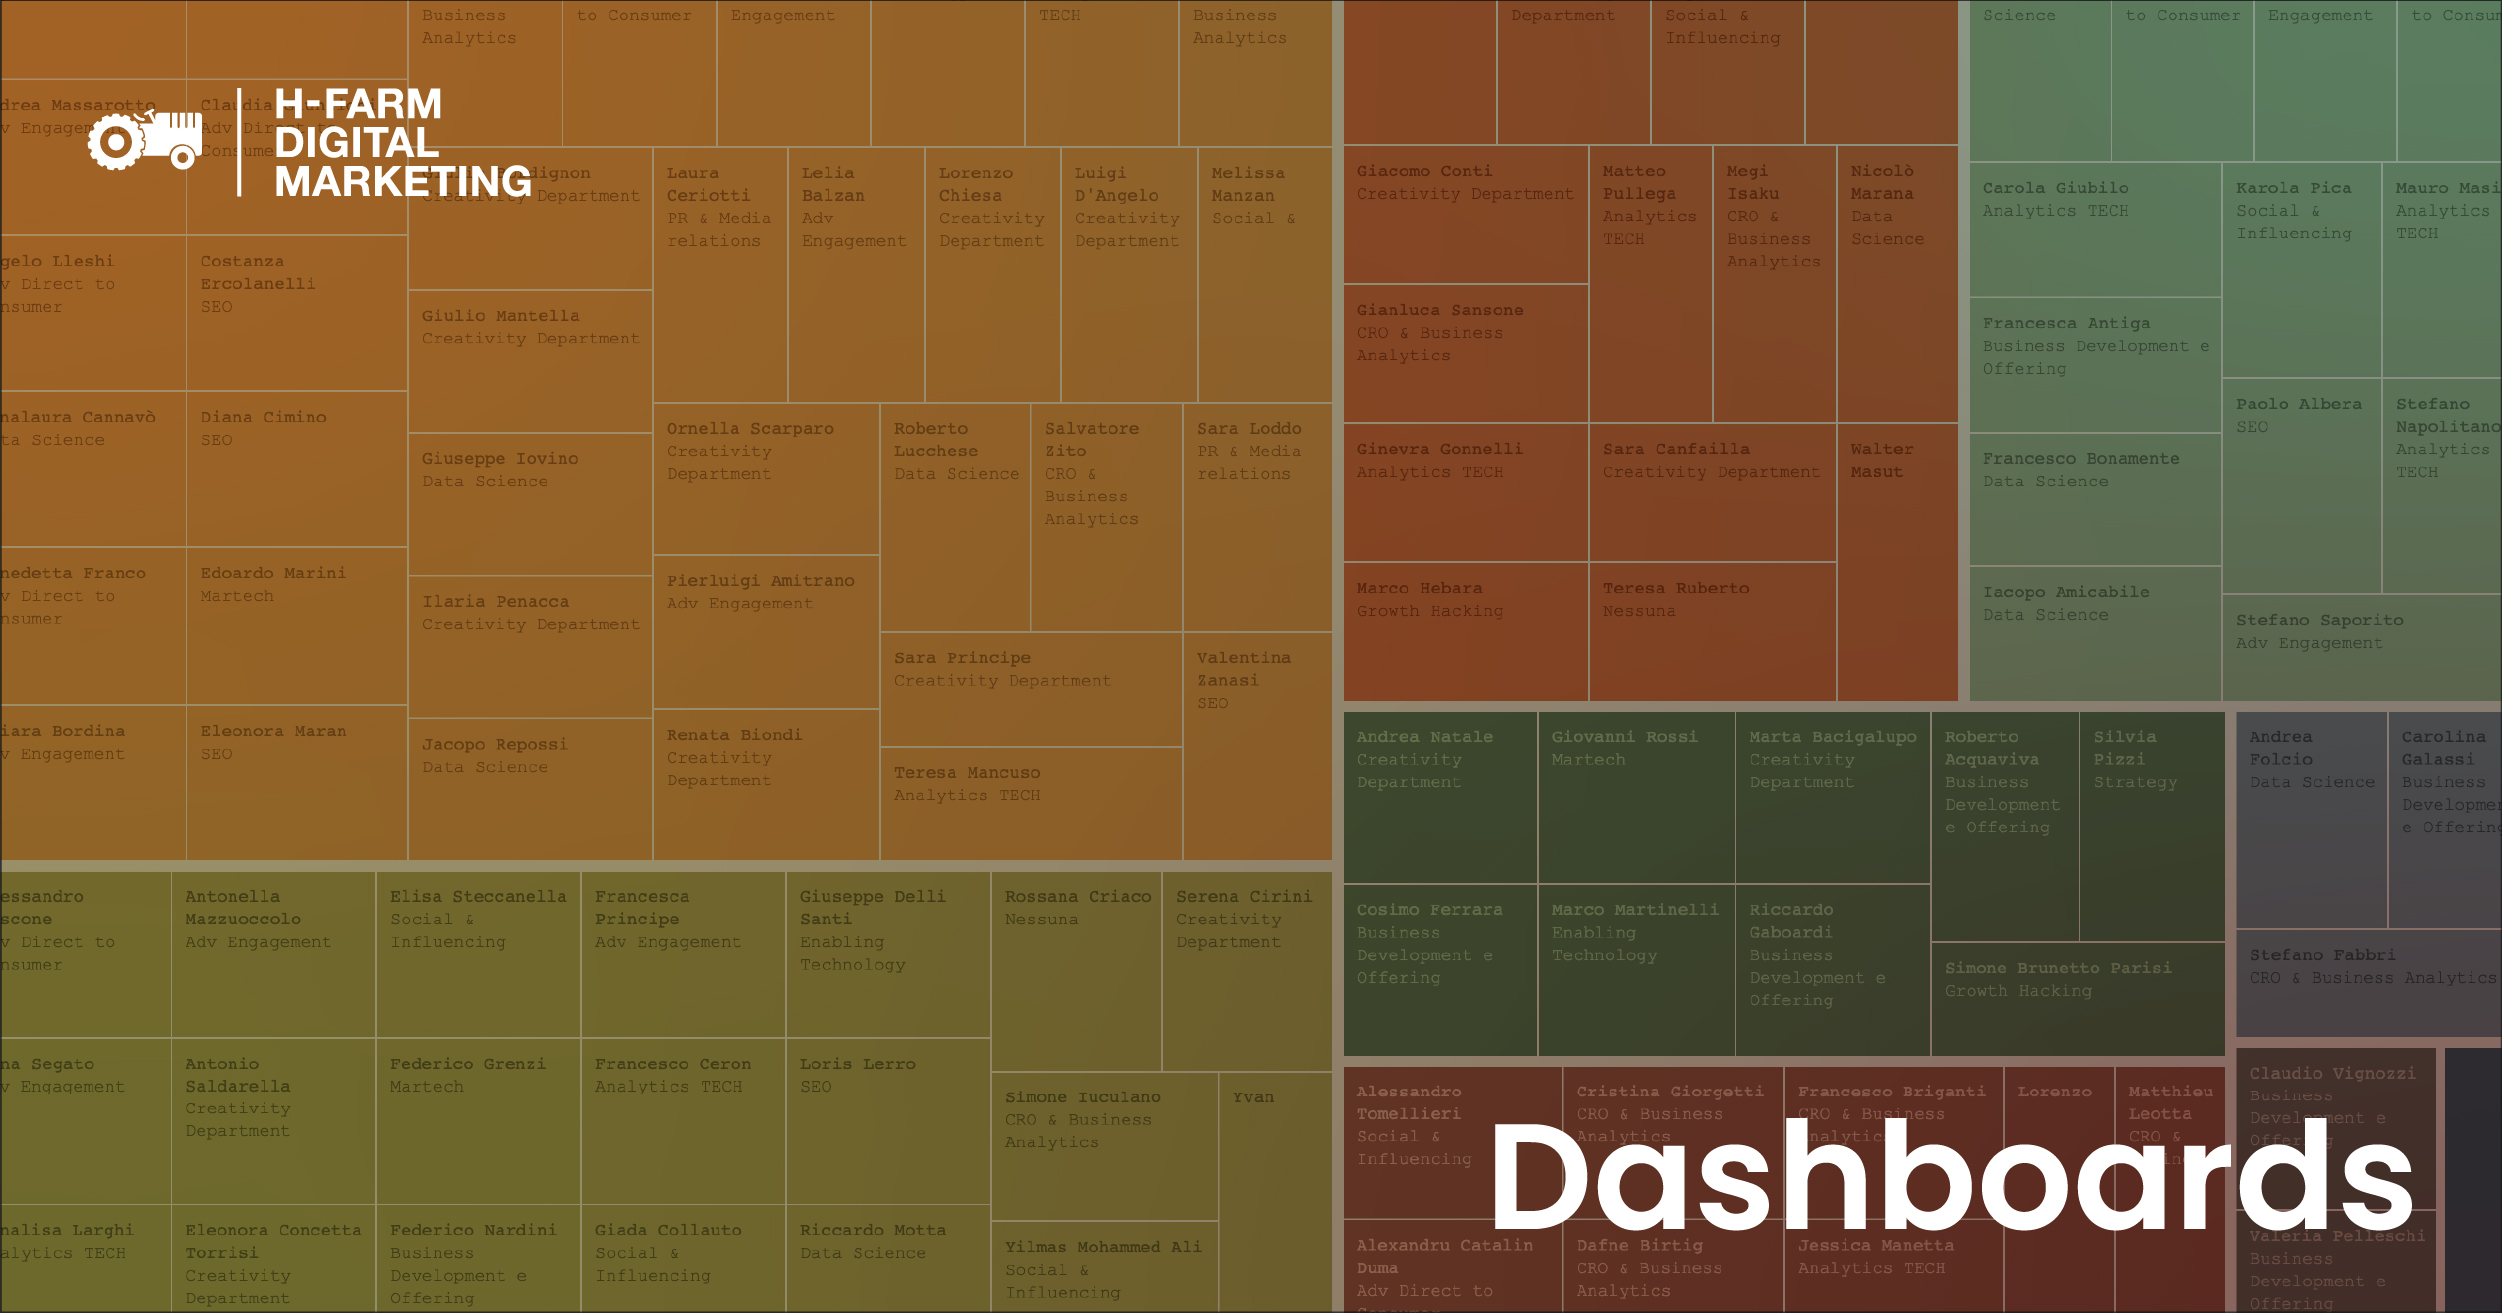
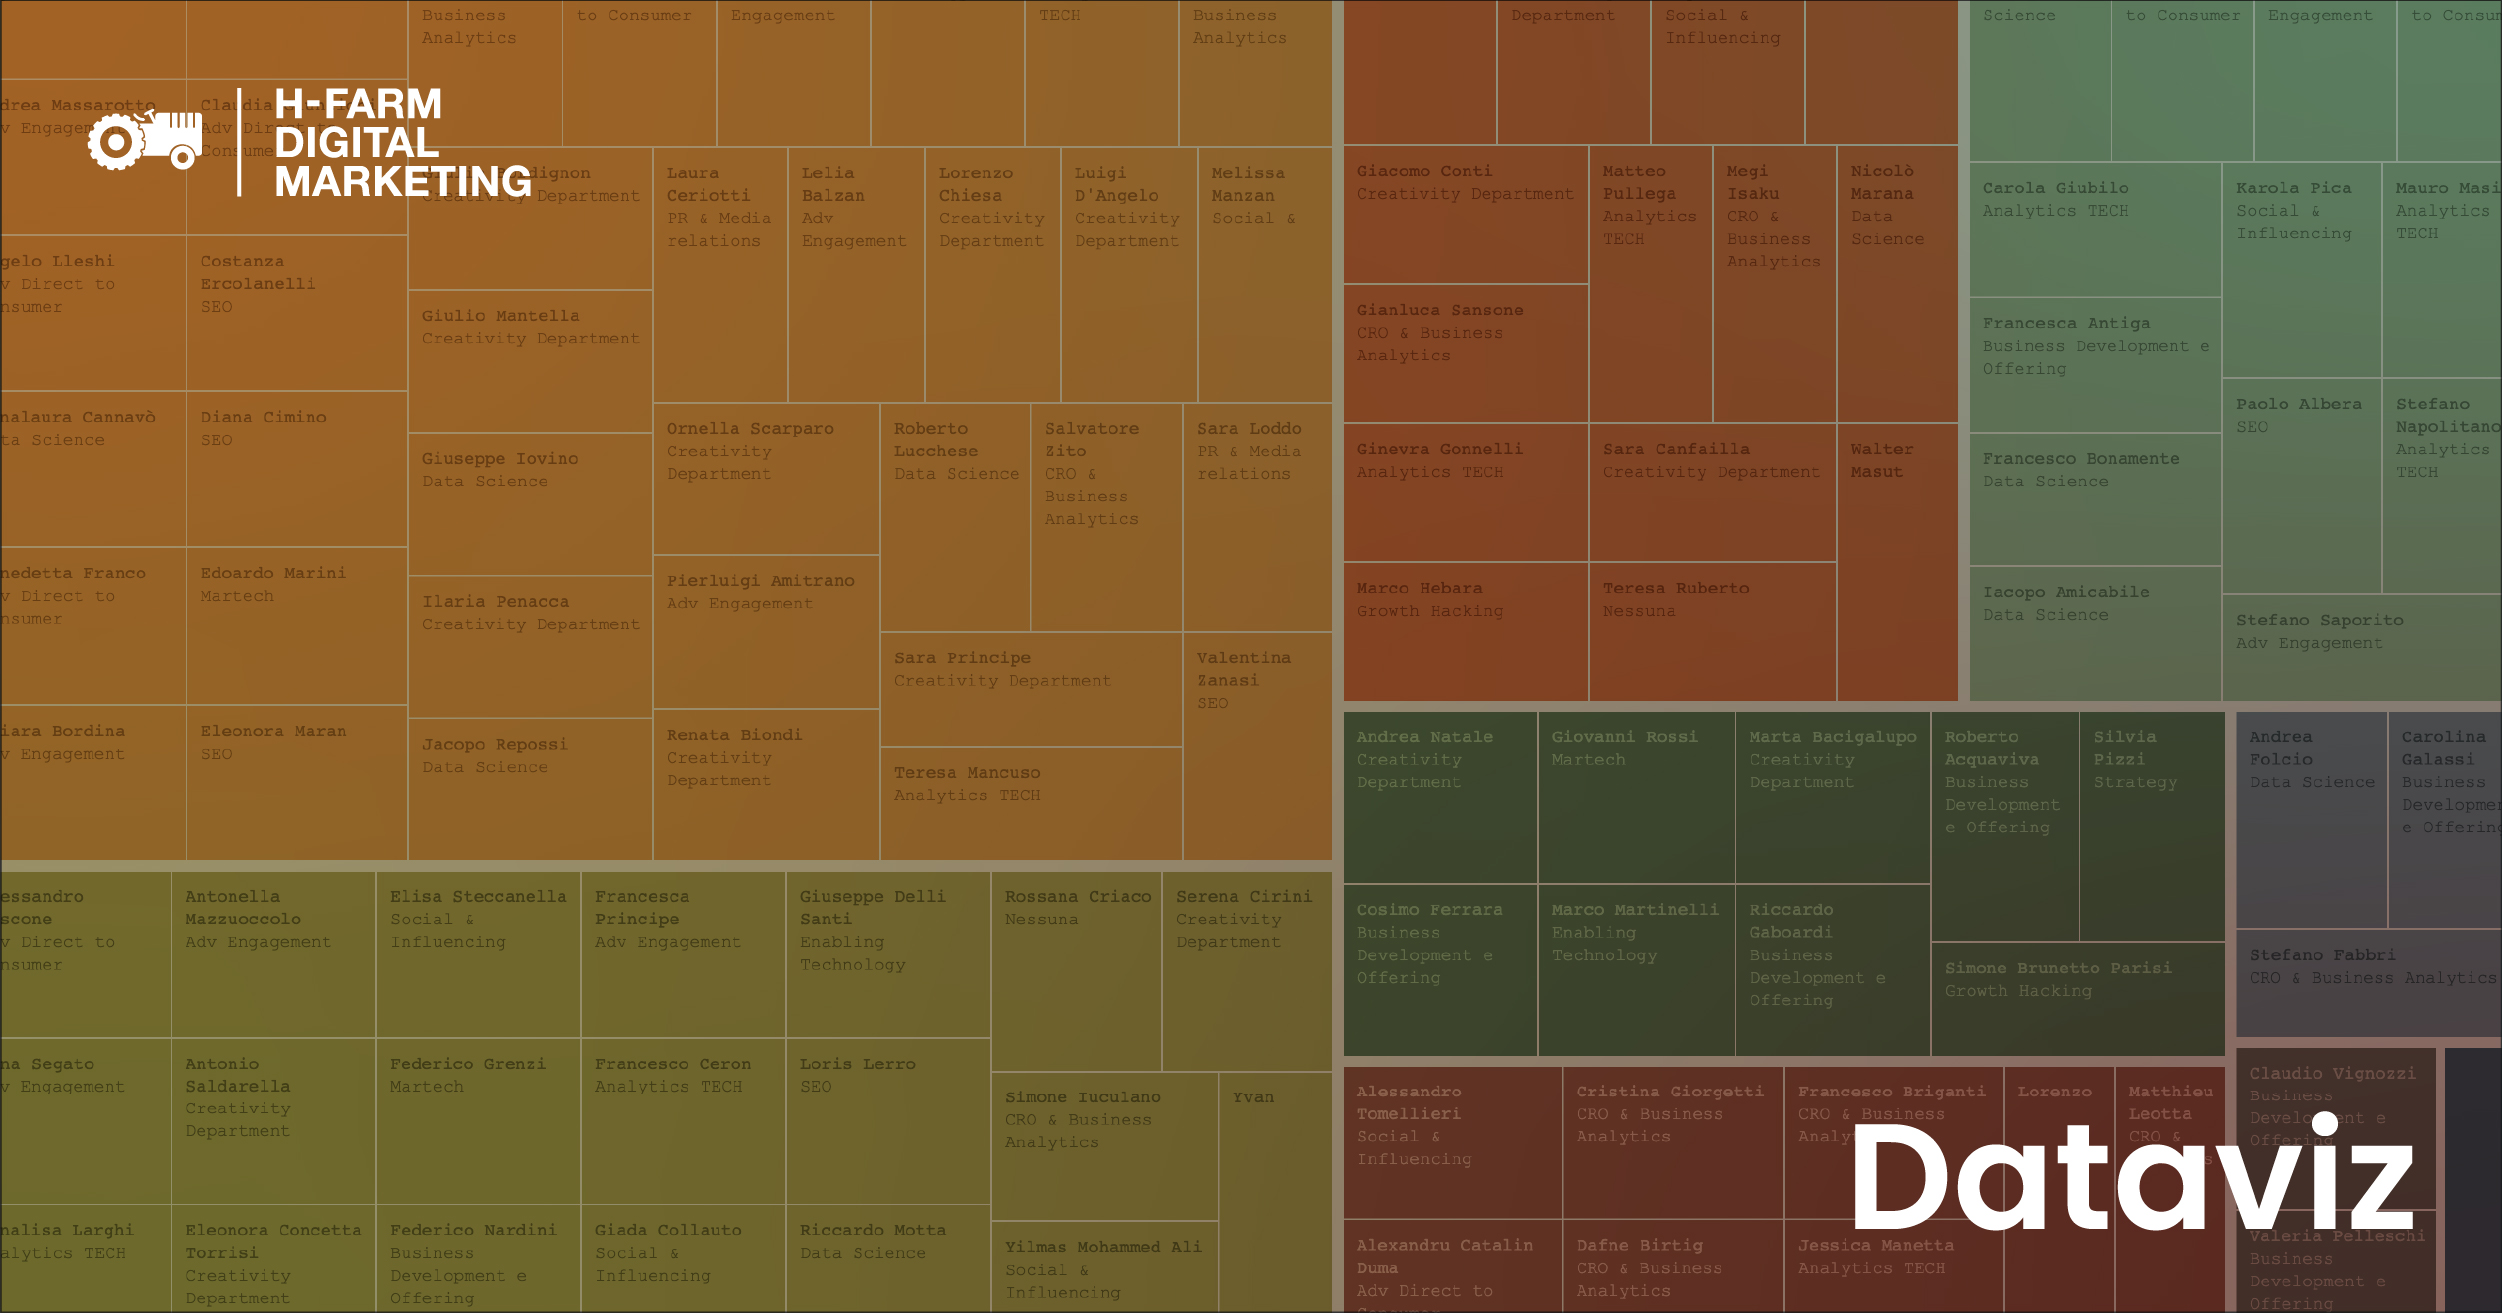
descrizione

Changed region(s): [[0.5923, 0.8431, 0.9664, 0.9368]]

diff --git a/index.html b/index.html
@@ -7,6 +7,8 @@
     <meta http-equiv="X-UA-Compatible" content="IE=edge">
     <meta name="viewport" content="width=device-width, initial-scale=1, shrink-to-fit=no">
 
+    <meta name="description" content="Pagina web che ha l'obiettivo di raccogliere tutti i lavori di data visualization realizzati a partire da alcuni dati interni ad HDM." />
+
     <meta property="og:title" content="HDM · Dashboards">
     <meta property="og:image" content="https://h-farm-digital-marketing.github.io/cover.jpg">
 
@@ -35,7 +37,7 @@
     <link href="https://fonts.googleapis.com/css2?family=Work+Sans:ital,wght@0,100;0,200;0,300;0,400;0,500;0,600;0,700;0,800;0,900;1,100;1,200;1,300;1,400;1,500;1,600;1,700;1,800;1,900&display=swap" rel="stylesheet">
     <link href="https://fonts.googleapis.com/css?family=Karla:100,400,400i,700,700i" rel="stylesheet">
 
-    <title>HDM · Dashboards</title>
+    <title>HDM · Dataviz</title>
 </head>
 
 <body>

diff --git a/kopernicana.html b/kopernicana.html
@@ -7,6 +7,9 @@
     <meta http-equiv="X-UA-Compatible" content="IE=edge">
     <meta name="viewport" content="width=device-width, initial-scale=1, shrink-to-fit=no">
 
+    <meta name="description" content="La dashboard Team fornisce una panoramica in merito all'organizzazione aziendale di HDM fornendo alcune informazioni di dettaglio sui membri che ne fanno parte." />
+
+
     <meta property="og:title" content="HDM · Team">
     <meta property="og:image" content="https://h-farm-digital-marketing.github.io/cover-team.jpg">
 

diff --git a/team.html b/team.html
@@ -7,6 +7,8 @@
     <meta http-equiv="X-UA-Compatible" content="IE=edge">
     <meta name="viewport" content="width=device-width, initial-scale=1, shrink-to-fit=no">
 
+    <meta name="description" content="La dashboard Team fornisce una panoramica in merito all'organizzazione aziendale di HDM fornendo alcune informazioni di dettaglio sui membri che ne fanno parte." />
+
     <meta property="og:title" content="HDM · Team">
     <meta property="og:image" content="https://h-farm-digital-marketing.github.io/cover-team.jpg">
 

diff --git a/controllo-di-rotta.html b/controllo-di-rotta.html
@@ -7,6 +7,8 @@
     <meta http-equiv="X-UA-Compatible" content="IE=edge">
     <meta name="viewport" content="width=device-width, initial-scale=1, shrink-to-fit=no">
 
+    <meta name="description" content="La dashboard Controllo di Rotta fornisce una panoramica in merito all'allocazione del budget in HDM." />
+
     <meta property="og:title" content="HDM · Controllo di Rotta">
     <meta property="og:image" content="https://h-farm-digital-marketing.github.io/cover-controllo-di-rotta.jpg">
 
